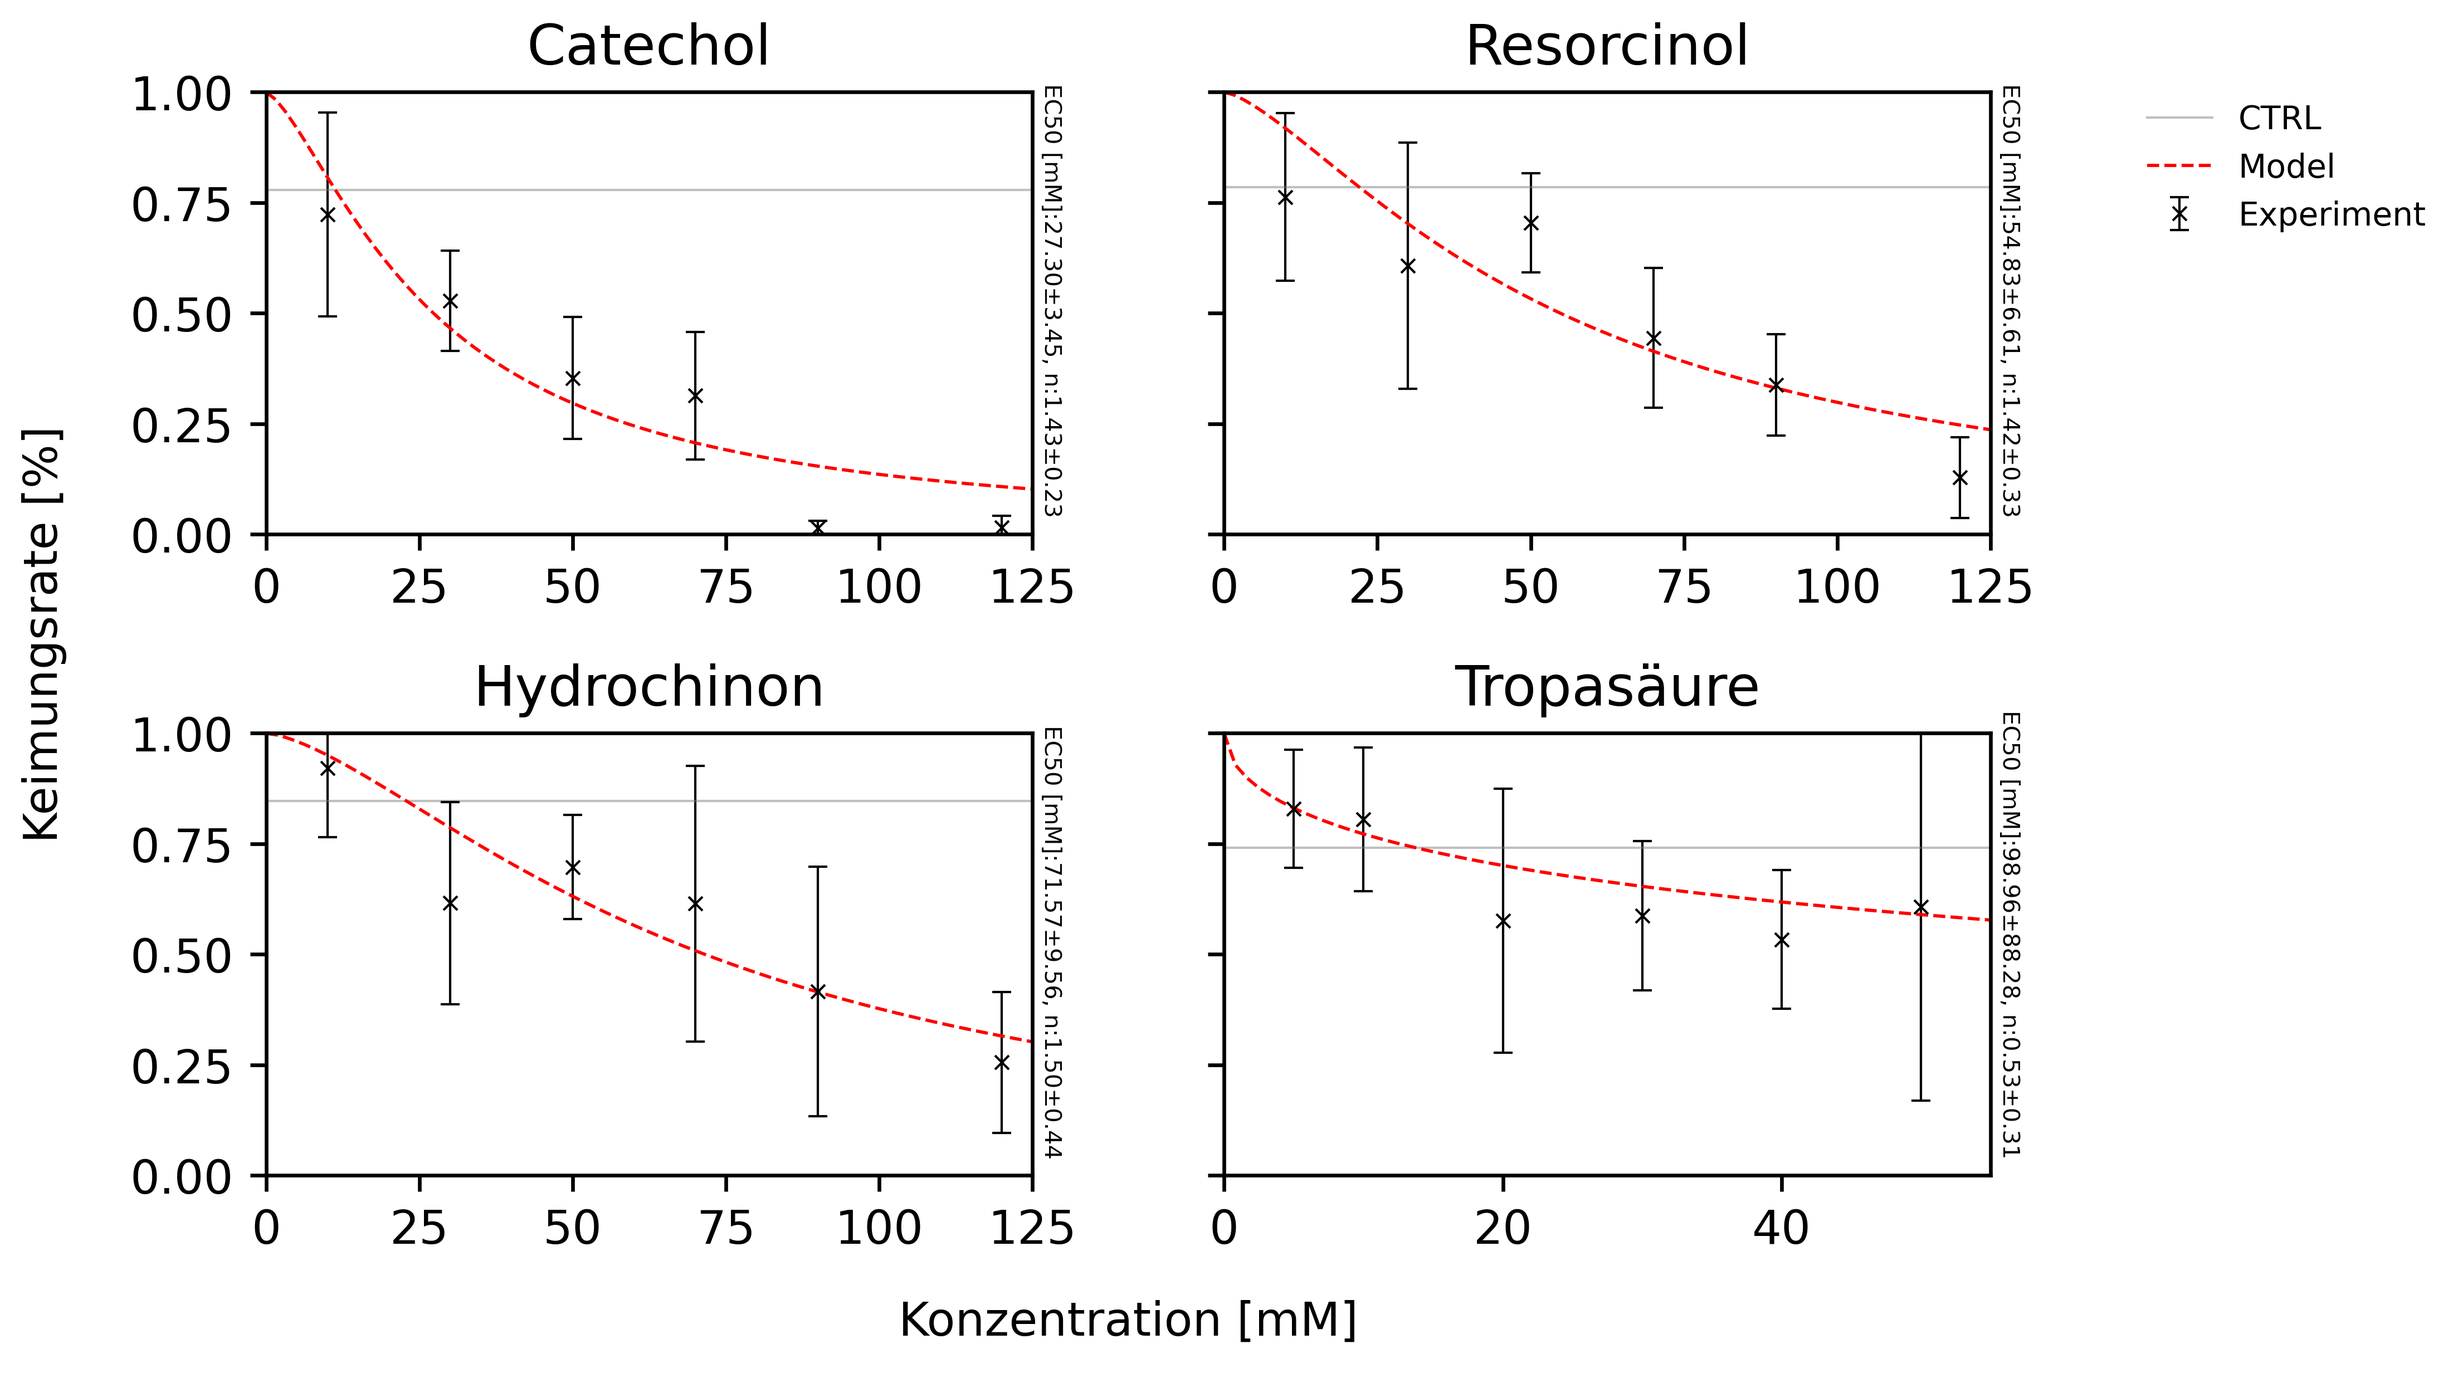
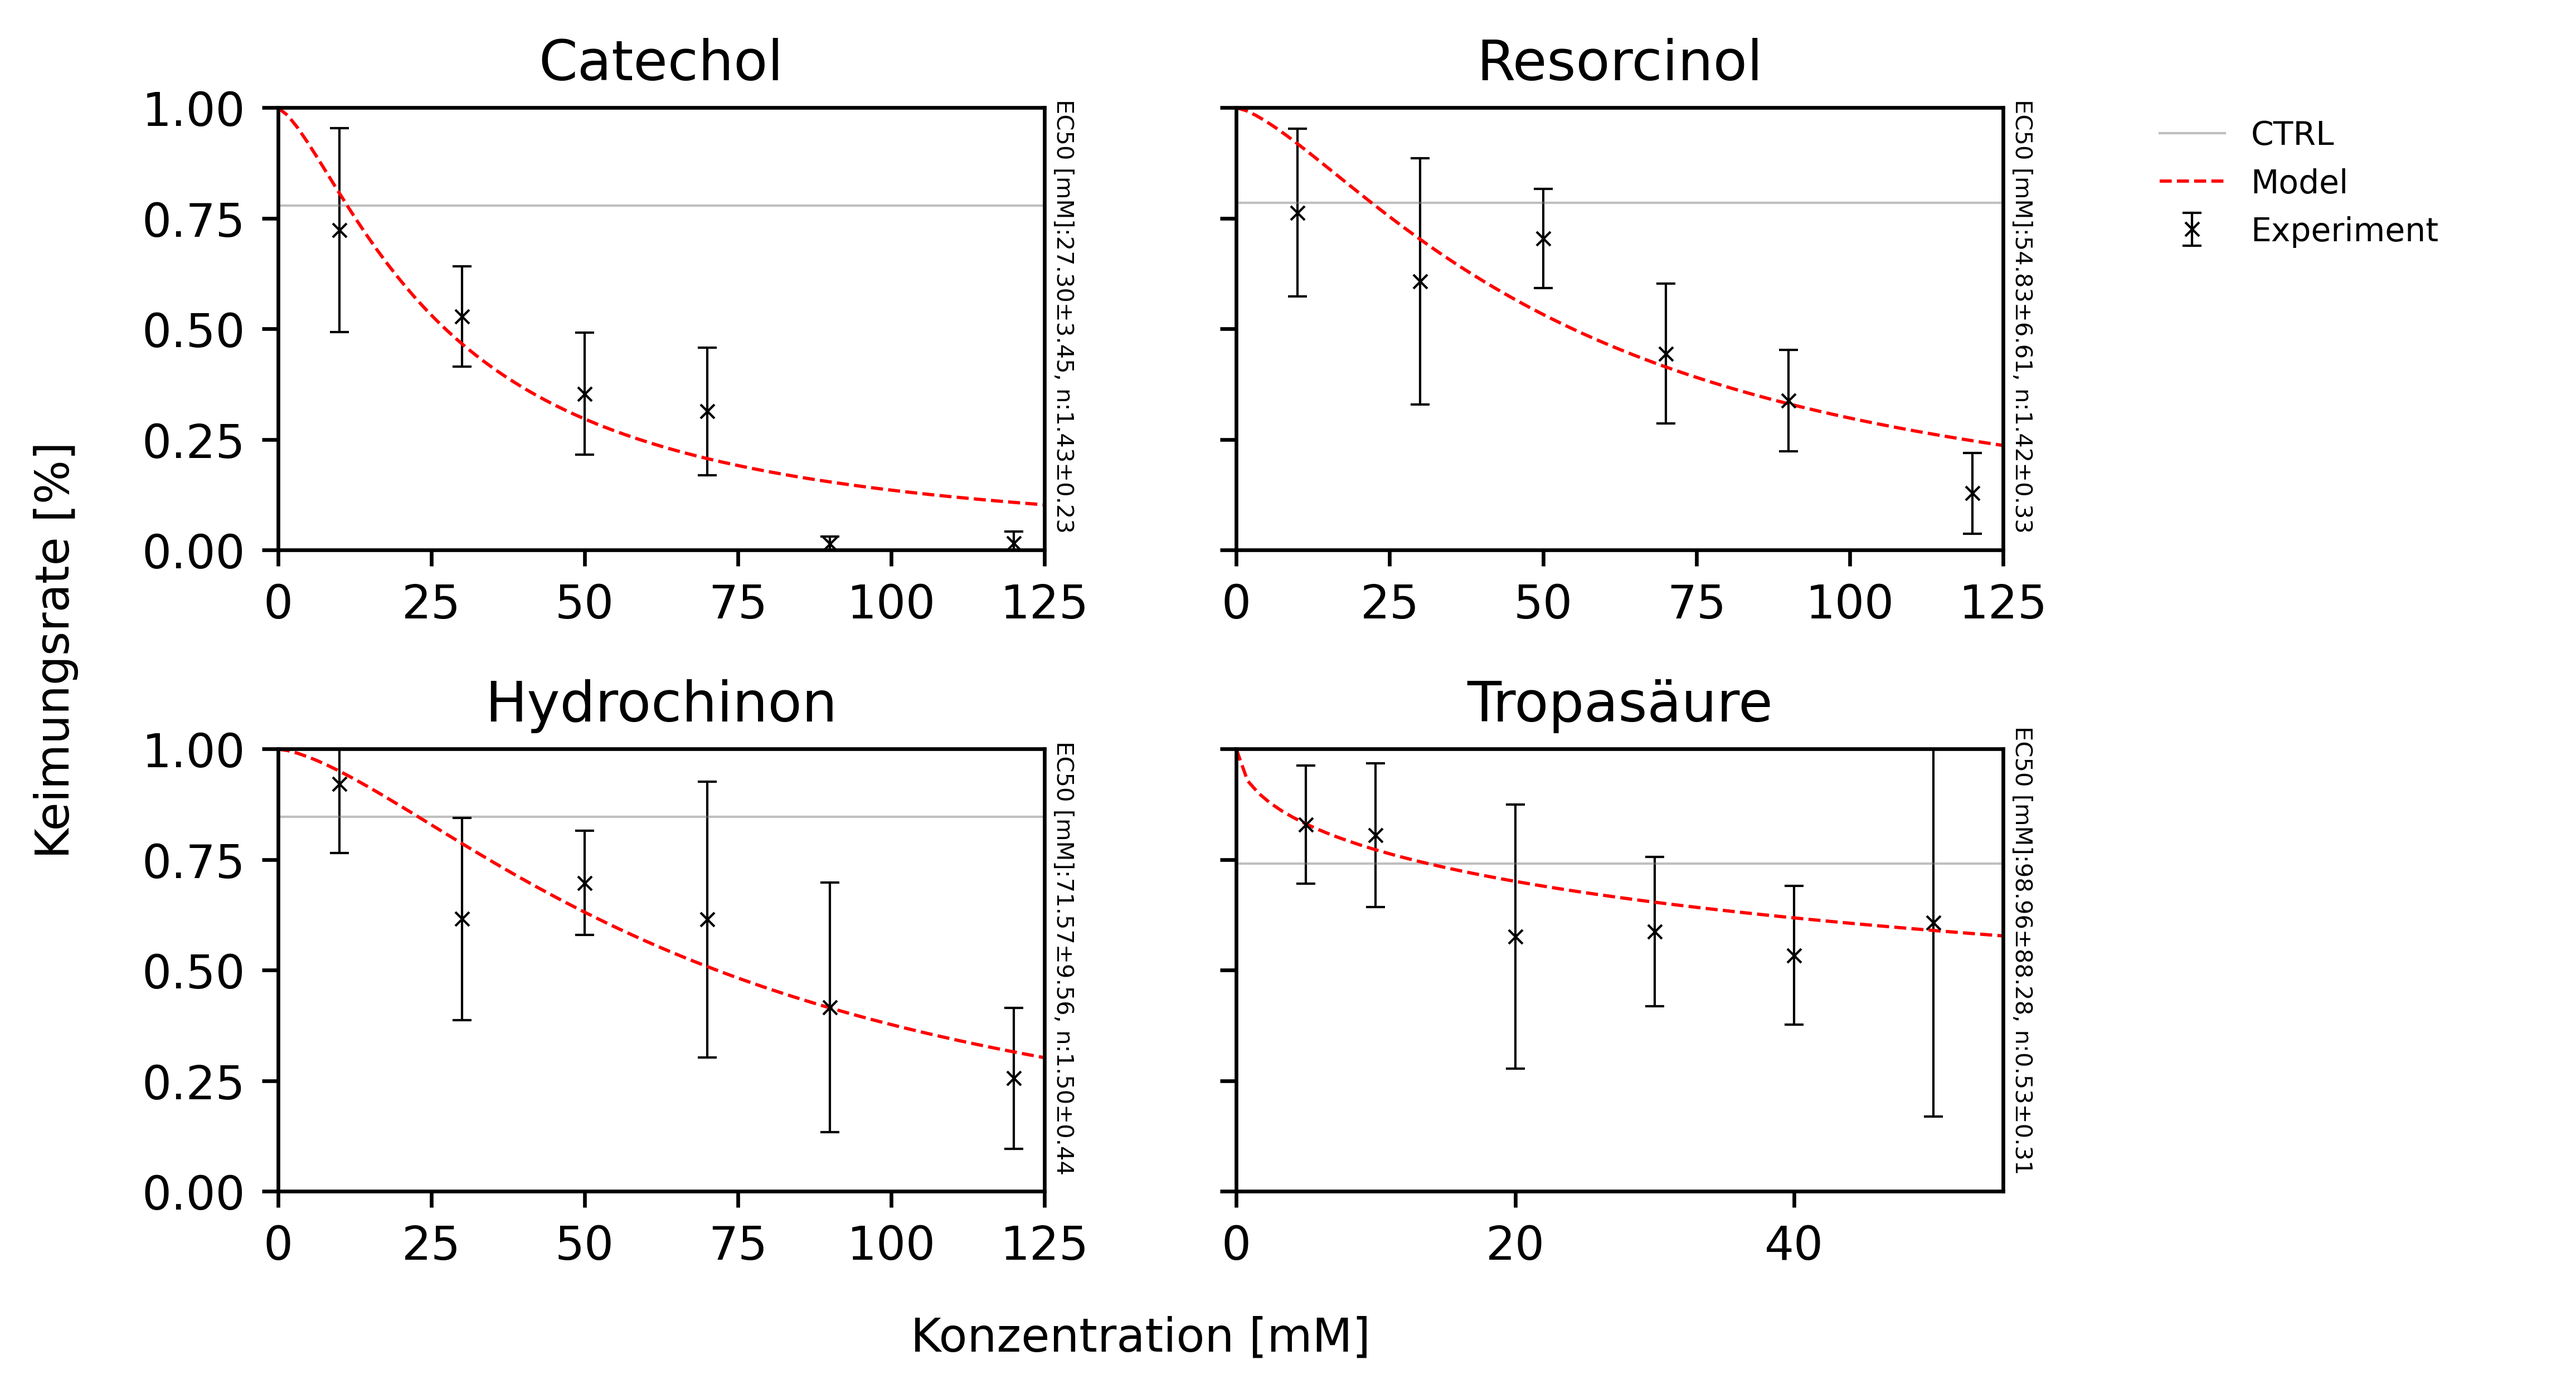
Added .py versions of files

diff --git a/experiments/dose-response/CATL_REL_HYL_effects.py b/experiments/dose-response/CATL_REL_HYL_effects.py
@@ -3,55 +3,100 @@
 
 # In this notebook the greenhouse data on Resorcinol (RE), Catechol (CAT or CA), Tropic acid (TA) and Hydroquinone (HY) will be analysed.
 
-# # Imports
-
-# In[41]:
+# In[1]:
 
 
 import numpy as np
 import pandas as pd
 import scipy.stats as stats
 import matplotlib.pyplot as plt
+from sklearn.metrics import mean_squared_error
 import scipy.optimize as opt
 
 
-# # Global definitions
+# Definition of global variables
 
-# In[40]:
+# In[2]:
 
 
-DATA_DIR = "/Users/David_Sauer/Documents/Data/Greenhouse_countings/january-february/plants.csv"
+DATA_DIR = "TA+DHB.csv" # original data in "/Users/David_Sauer/Documents/Data/Greenhouse_countings/january-february/plants.csv"
 HEADERS = ["experiment", "solution", "plant", "internal_reproduction", "usable", "total_seeds", "germination_1", "germination_2", "biomass", "notes", "external_reproduction"]
-SUBSTANCES = ["Catechol", "Resorcinol", "Hydroquinone", "Tropic acid"]
+SUBSTANCES = ["Catechol", "Resorcinol", "Hydrochinon", "Tropasäure"]
 SUBSTANCES_SHORT = ["C", "R", "H", "TA"]
 EXPERIMENT_NAMES = ["CATL1", "CATL2", "CATL3", "REL1", "REL2", "REL3", "HYL1", "HYL2", "HYL3", "TAL1", "TAL2", "TAL3"]
-df = pd.read_csv(DATA_DIR, names=HEADERS, sep=";") 
-df = df.loc[df["experiment"].isin(EXPERIMENT_NAMES)]
-
-def hill(conc, ec50, n):
-    return 1/(1+(conc/ec50)**n)
 
 
-# # Code
+# Now we read in the data.
 
-# In[47]:
+# In[3]:
+
+
+df = pd.read_csv(DATA_DIR, names=HEADERS, sep=";")
+
+
+# In[4]:
+
+
+df
+
+
+# We then define some utility functions.
+
+# In[5]:
+
+
+def hill(c, half, n): 
+    return 1/(1+(c/half)**n)
+
+def rmse(predictions, targets):
+    return np.sqrt(sum((np.array(predictions) - np.array(targets)) ** 2))
+
+def r2(predictions, targets):
+    ssre = sum([n**2 for n in np.array(targets)-np.array(predictions)])
+    sstot = sum([n**2 for n in np.array(targets)-np.mean(targets)])
+    return 1-(ssre/sstot)
+
+def effects_of_df(df):
+    return df["germination_2"]/df["total_seeds"]
+
+def confidence_interval(arr):
+    return stats.t.interval(0.95, len(arr)-1, loc=np.mean(arr), scale=stats.sem(arr))
+
+
+def fit_to_hill(df, substance_idx):
+    experiment_names = EXPERIMENT_NAMES[substance_idx*3:(substance_idx+1)*3]
+    df = df.loc[df["experiment"].isin(experiment_names) & df["solution"].map(lambda name: name!="CTRL")]
+    concentrations = [float(n) for n in df["solution"]]
+    effects = effects_of_df(df)
+    params, pcov = opt.curve_fit(hill, concentrations, effects, p0=(max(concentrations)/2,1))
+    return (params, pcov) #latter is SE for parameters
+
+
+# In[ ]:
+
+
+
+
+
+# Now we perform the plotting.
+
+# In[6]:
 
 
 fig, axs = plt.subplots(2,2, squeeze=True, sharey=True)
 ctrls=[]
 for idx, ax in enumerate(axs.flatten()):
-    ec50_estimate = 60
-    max_val = 120
-    text_offset = 1
+    ec50_estimate = 80
+    max_val = 125
+    text_offset = 1.2
     if idx==3:
-        ec50_estimate = 25
-        max_val = 50
+        ec50_estimate = 40
+        max_val = 55
         text_offset = 0.5
     local_df = df.loc[df["experiment"].isin(EXPERIMENT_NAMES[idx*3:(idx+1)*3])]
     local_control = local_df.loc[local_df["solution"] == "CTRL"]
     control_germ_percentage = np.mean(local_control["germination_2"])/np.mean(local_control["total_seeds"])
     local_data = local_df.loc[local_df["solution"] != "CTRL"]
-    local_data.loc[:, ("solution")] = [n.split(SUBSTANCES_SHORT[idx])[1] for n in local_data.loc[:, ("solution")]]
     concs = local_data["solution"].unique()
     true_concs = [int(n) for n in local_data["solution"]]
     effects = []
@@ -61,31 +106,30 @@ for idx, ax in enumerate(axs.flatten()):
         conc_data =local_data.loc[local_data["solution"] == conc]
         local_effects = conc_data["germination_2"]/conc_data["total_seeds"]
         effect = np.mean(conc_data["germination_2"])/np.mean(conc_data["total_seeds"])
-        errors.append(stats.sem(local_effects))
+        errors.append(np.std(local_effects))
         effects.append(effect)
-    print(errors)
     concs = [int(n) for n in concs]
     params, pcov = opt.curve_fit(hill, true_concs, true_effects, p0=(ec50_estimate,1))
     ax.plot([0,max_val],[control_germ_percentage, control_germ_percentage], color="grey", linewidth=0.5, alpha=0.5, label="CTRL")
-    ax.plot(np.linspace(0,ec50_estimate*2, num=100), [hill(n, params[0], params[1]) for n in np.linspace(0,ec50_estimate*2, num=100)], "--r", linewidth=0.7, label="model")
-    ax.errorbar(concs, effects, yerr=errors, linestyle='None', marker="x", color="k", elinewidth=0.5, capsize=2, markersize=3, mew=0.5, label="measurements")
+    ax.plot(np.linspace(0,ec50_estimate*2, num=100), [hill(n, params[0], params[1]) for n in np.linspace(0,ec50_estimate*2, num=100)], "--r", linewidth=0.7, label="Model")
+    ax.errorbar(concs, effects, yerr=errors, linestyle='None', marker="x", color="k", elinewidth=0.5, capsize=2, markersize=3, mew=0.5, label="Experiment")
     ax.set_title(SUBSTANCES[idx])
     ax.set_xlim([0, max_val])
     ax.set_ylim([0,1])
     pcov = np.sqrt(np.diag(pcov))
     ctrls.append(control_germ_percentage)
-    ax.text(max_val+text_offset, 0.25, "D0:{:03.2f}±{:03.2f}, n:{:03.2f}±{:03.2f}".format(params[0],pcov[0],params[1],pcov[1]), rotation=-90, fontsize=5)
+    ax.text(max_val+text_offset, 0.05, "EC50 [mM]:{:03.2f}±{:03.2f}, n:{:03.2f}±{:03.2f}".format(params[0],pcov[0],params[1],pcov[1]), rotation=-90, fontsize=5)
+    print("RMSE: {}".format(mean_squared_error(true_effects, hill(true_concs, *params), squared=False)))
+    print("{}: D0:{:03.2f}±{:03.2f}, n:{:03.2f}±{:03.2f}".format(SUBSTANCES[idx], params[0],pcov[0],params[1],pcov[1]))
     if idx==3:
         handles, labels = ax.get_legend_handles_labels()
         fig.legend(handles, labels, loc=1, bbox_to_anchor=(1.23, 0.975), fontsize=7, frameon=False, shadow=False)
-print(np.mean(control_germ_percentage))
-print(ctrls)
 plt.tight_layout()
 
 fig.add_subplot(111, frame_on=False)
 plt.tick_params(labelcolor="none", bottom=False, left=False)
 plt.subplots_adjust(left=None, bottom=None, right=None, top=None, wspace=0.25, hspace=0.45)
-plt.xlabel("concentration [mM]", labelpad=10)
-plt.ylabel("germination rate", labelpad=20)
+plt.xlabel("Konzentration [mM]", labelpad=10)
+plt.ylabel("Keimungsrate [%]", labelpad=20)
 fig.savefig("figure.png", dpi=600, bbox_inches='tight')
 

diff --git a/experiments/spectrometry/SpectrometryStandardCurves.py b/experiments/spectrometry/SpectrometryStandardCurves.py
@@ -1,0 +1,77 @@
+#!/usr/bin/env python
+# coding: utf-8
+
+# In[1]:
+
+
+import numpy as np
+import matplotlib.pyplot as plt
+import pandas as pd
+import re
+from scipy import stats
+
+
+# In[2]:
+
+
+DATA_DIR = "std_curves_06022020.csv"
+df = pd.read_csv(DATA_DIR, sep=";")
+
+
+# In[3]:
+
+
+df_list = np.array_split(df, 7)
+
+
+# In[4]:
+
+
+data_dict = {}
+for df in df_list:
+    data_dict[df.iloc[0]["substance"]] = {"conc": np.array(df["concentration"], dtype=float), "abs": np.array(df["absorbance"], dtype=float), "usability": np.array(df["usable"], dtype=bool)}
+
+
+# In[7]:
+
+
+color_dict = {"C":"black", "R": "blue", "H": "orange"}
+name_dict = {"C":"Catechol", "R": "Resorcinol", "H": "Hydroquinone"}
+wavelength_dict = {"C":"275 nm", "R": "273 nm", "H": "288 nm"}
+
+
+fig, axs= plt.subplots(1,3, sharex=True, figsize=(15,4))
+fig.tight_layout()
+plt.subplots_adjust(left=None, bottom=None, right=None, top=None, wspace=0.2, hspace=None)
+n=0
+for substance, dictionary in data_dict.items():
+    if n<3:
+        ax=axs[n]
+        n+=1
+    if re.match(r"R|C|H",substance):
+        """for index, usable in enumerate(dictionary["usability"]):
+            if (index==10)&(dictionary["abs"][0]==0):
+                dictionary["conc"] = np.delete(dictionary["conc"], index)
+                dictionary["abs"] = np.delete(dictionary["abs"], index)
+                dictionary["usability"] = np.delete(dictionary["usability"], index)
+            if usable==False:
+                dictionary["conc"] = np.delete(dictionary["conc"], index)
+                dictionary["abs"] = np.delete(dictionary["abs"], index)
+                dictionary["usability"] = np.delete(dictionary["usability"], index)"""
+        slope, intercept, r_value, p_value, std_err = stats.linregress(dictionary["conc"], dictionary["abs"])
+        ax.plot(dictionary["conc"][:], dictionary["abs"][:], "+", color="black", mew=0.5)
+        ax.plot([0,65], [intercept, 65*slope+intercept], color="blue", linewidth=0.5)
+        ax.set_ylim(ymin=-0.01)
+        ax.set_xlim(xmin=-2, xmax=65)
+        ax.set_ylabel("Absorption ({})".format(wavelength_dict[substance]))
+        ax.set_xlabel("Konzentration (μM)")
+        ax.set_title("{}".format(name_dict[substance]), pad=10)
+        print("{}: R = {}".format(substance, round(r_value,4)))
+fig.savefig("standardcurves.png".format(substance), dpi=600,  bbox_inches='tight', pad_inches=0)
+
+
+# In[ ]:
+
+
+
+

diff --git a/experiments/synergism/Plotting.py b/experiments/synergism/Plotting.py
@@ -1,0 +1,48 @@
+#!/usr/bin/env python
+# coding: utf-8
+
+# In[7]:
+
+
+import matplotlib.pyplot as plt
+import pandas as pd
+import numpy as np
+
+
+# In[15]:
+
+
+df = pd.read_csv("prediction-dev.csv")
+aij = np.loadtxt(open("aij.csv", "r"), delimiter=",")
+drugs = ["CA", "RE", "HQ", "MA"]
+
+
+# In[149]:
+
+
+fig, axs = plt.subplots(nrows=1, ncols=2)
+
+plt.subplots_adjust(left=None, bottom=None, right=None, top=None, wspace=1.2, hspace=None)
+cax = fig.add_axes([0.40, 0.31, 0.03, 0.37])
+ax=axs[0]
+img =ax.imshow(np.log10(aij), cmap='inferno')
+fig.colorbar(img, cax=cax, orientation='vertical')
+
+ax.set_xticks(range(0,4))
+ax.set_xticklabels(drugs)
+ax.set_yticks(range(0,4))
+ax.set_yticklabels(drugs)
+ax.text(-1.8,0,"a)", fontweight="bold")
+ax=axs[1]
+ax.set_aspect('equal')
+
+ax.plot(df["experiment"], df["model"], "b+", ms=2.5, mew=0.5)
+ax.plot(df["experiment"], df["bliss"], "ro", ms=2.5, fillstyle='none', mew=0.5)
+ax.plot([0,1], [0,1], "k", linewidth=0.5)
+ax.set_xlim(xmin=0, xmax=1)
+ax.set_ylim(ymin=0, ymax=1)
+ax.set_xlabel("Experiment")
+ax.set_ylabel("Modell")
+ax.text(-0.5,0.9,"b)", fontweight="bold")
+fig.savefig("combined.png", dpi=400, bbox_inches="tight")
+
